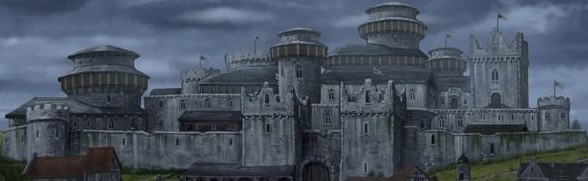
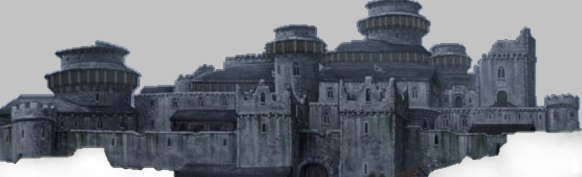
Changed background

diff --git a/src/MyWorld.java b/src/MyWorld.java
@@ -90,7 +90,7 @@ public class MyWorld extends World
         
        addObject(bonusWeaponsMenu , 150, 200);
         //command pattern ends
-        GreenfootImage bg = new GreenfootImage("snow_background_22.png");
+        GreenfootImage bg = new GreenfootImage("snow_background_21.png");
         bg.scale(getWidth(), getHeight());
         setBackground(bg);
         addObject(castle ,370,170);
